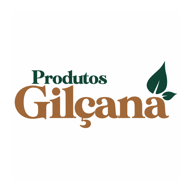
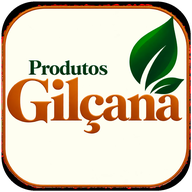
Add files via upload

diff --git a/app.js b/app.js
@@ -1,47 +1,6 @@
 const SUPABASE_URL='https://kpzcvreqjkgevzmlipjs.supabase.co';
 const SUPABASE_KEY='sb_publishable_PgFcb8Fu86xyZ1Fiu1ftEQ_664m7EdB';
 const sb=window.supabase.createClient(SUPABASE_URL,SUPABASE_KEY,{auth:{persistSession:true,autoRefreshToken:true,detectSessionInUrl:true}});
-const FIREBASE_CONFIG={apiKey:'AIzaSyCUh85u__pabANEfEW01gJcBhRi28j5glA',authDomain:'produtos-gilcana.firebaseapp.com',projectId:'produtos-gilcana',storageBucket:'produtos-gilcana.firebasestorage.app',messagingSenderId:'517281824102',appId:'1:517281824102:web:b32b94de1bd2d189215ca7'};
[1 lines of base64/hex data omitted]
-let firebaseMessaging=null;
-async function initPush(){
- if(!account||!('Notification' in window)||!('serviceWorker' in navigator)||!window.firebase)return;
- try{
-  if(!firebase.apps.length)firebase.initializeApp(FIREBASE_CONFIG);
-  firebaseMessaging=firebase.messaging();
-  firebaseMessaging.onMessage(payload=>{const n=payload.notification||{};toast(n.title?`${n.title}: ${n.body||''}`:(payload.data?.body||'Nova notificação.'));loadNotifications();refreshChatUnread();});
-  // Só registra automaticamente quando a conta deseja notificações.
-  // Assim, desligar no app não é desfeito silenciosamente ao reabrir a página.
-  if(Notification.permission==='granted'&&account.notificacoes_ativas!==false)await registerPushToken(false);
- }catch(e){console.error('Push init',e)}
-}
-async function registerPushToken(askPermission=true){
- if(!account)throw new Error('Conta não carregada.');
- if(!('Notification' in window))throw new Error('Este navegador não oferece notificações Web Push.');
- if(!('serviceWorker' in navigator))throw new Error('Este navegador não oferece suporte ao serviço de notificações.');
- try{
-  if(Notification.permission==='denied'){
-   throw new Error('As notificações estão bloqueadas no navegador. Abra as configurações do site/celular, permita Notificações e tente novamente.');
-  }
-  if(askPermission&&Notification.permission==='default'){
-   const p=await Notification.requestPermission();
-   if(p!=='granted')throw new Error(p==='denied'?'As notificações foram bloqueadas. Libere a permissão nas configurações do navegador e tente novamente.':'A permissão de notificações não foi concedida.');
-  }
-  if(Notification.permission!=='granted')throw new Error('Permissão de notificações pendente.');
-  if(!window.firebase)throw new Error('Firebase não carregou. Atualize a página e tente novamente.');
-  if(!firebase.apps.length)firebase.initializeApp(FIREBASE_CONFIG);
-  firebaseMessaging=firebaseMessaging||firebase.messaging();
-  const reg=await navigator.serviceWorker.ready;
-  // getToken recupera o token existente ou cria outro. Isso permite reativar
-  // o aparelho depois de desativá-lo no Supabase.
-  const token=await firebaseMessaging.getToken({vapidKey:FIREBASE_VAPID,serviceWorkerRegistration:reg});
-  if(!token)throw new Error('Não foi possível registrar este aparelho no Firebase.');
-  const {error}=await sb.rpc('registrar_meu_push',{p_token:token,p_plataforma:navigator.userAgent,p_endpoint:location.origin+location.pathname});
-  if(error)throw error;
-  return true;
- }catch(e){console.error('Push register',e);if(askPermission)toast(e.message||'Não foi possível ativar notificações.');return false;}
-}
-
 let account=null, products=[], recommendedProductIds=[], recommendationQty={}, recommendationCursor=0, selected={}, detailProductId=null, detailQuantity=1, cart=JSON.parse(localStorage.getItem('gilcana-cart-v2')||'{}'), activeChatOrder=null, orderRows=[], chatUnreadCount=0, notificationUnreadCount=0;
 const $=s=>document.querySelector(s); const esc=s=>String(s??'').replace(/[&<>"']/g,c=>({'&':'&amp;','<':'&lt;','>':'&gt;','"':'&quot;',"'":'&#39;'}[c]));
 function toast(t){const e=$('#toast');e.textContent=t;e.classList.add('show');clearTimeout(window.tt);window.tt=setTimeout(()=>e.classList.remove('show'),2400)}
@@ -54,7 +13,7 @@ async function ensureAuth(){let {data:{session}}=await sb.auth.getSession();if(!
 async function getAccount(){const {data,error}=await sb.rpc('minha_conta');if(error)throw error;return data}
 async function boot(){try{await ensureAuth();account=await getAccount();if(account){openApp();await Promise.all([loadCatalog(),loadDeliveryDates(),loadOrders(),loadMessages(),loadNotifications()]);subscribeRealtime()}else showLogin()}catch(e){showLogin(e.message)}}
 function showLogin(msg=''){ $('#loginScreen').style.display='grid';$('#appShell').hidden=true;$('#loginError').textContent=msg}
-function openApp(){ $('#loginScreen').style.display='none';$('#appShell').hidden=false;$('#hello').textContent='OLÁ, '+String(account.nome_acesso||account.nome_empresa||'CLIENTE').toUpperCase();setTimeout(initPush,700)}
+function openApp(){ $('#loginScreen').style.display='none';$('#appShell').hidden=false;$('#hello').textContent='OLÁ, '+String(account.nome_acesso||account.nome_empresa||'CLIENTE').toUpperCase();updateInstallUI()}
 async function activateDevice(){const btn=$('#loginBtn');btn.disabled=true;$('#loginError').textContent='';try{await ensureAuth();const nome=$('#loginName').value.trim(),telefone=normalizePhone($('#loginPhone').value),codigo=$('#loginCode').value.trim();if(!nome||telefone.length<10||codigo.length<4)throw new Error('Preencha nome, WhatsApp e código de acesso.');const {data,error}=await sb.rpc('ativar_aparelho',{p_nome:nome,p_telefone:telefone,p_codigo:codigo});if(error)throw error;account=await getAccount();openApp();await Promise.all([loadCatalog(),loadDeliveryDates(),loadOrders(),loadMessages(),loadNotifications()]);subscribeRealtime();startUnreadPolling();toast('Acesso autorizado.')}catch(e){$('#loginError').textContent=e.message||'Não foi possível entrar.'}finally{btn.disabled=false}}
 async function loadCatalog(){const {data,error}=await sb.from('produtos').select('id,nome,descricao,unidade,quantidade_disponivel,imagem_url').eq('ativo',true).order('nome');if(error)throw error;products=data||[];const {data:recs}=await sb.from('produtos_recomendados').select('produto_id,ordem').eq('ativo',true).order('ordem');recommendedProductIds=(recs||[]).map(r=>r.produto_id).filter(id=>products.some(p=>p.id===id)).slice(0,3);if(!recommendedProductIds.length)recommendedProductIds=products.slice(0,3).map(p=>p.id);renderProducts();renderCart()}
 function renderProducts(){const q=($('#search')?.value||'').toLowerCase();$('#products').innerHTML=products.filter(p=>p.nome.toLowerCase().includes(q)).map(p=>`<article class="product"><div class="pic" onclick="openProductDetail(${p.id})" title="Ver detalhes">${pic(p)}</div><div class="body"><h3 class="product-title-link" onclick="openProductDetail(${p.id})">${esc(p.nome)}</h3><small>${esc(p.unidade)} • ${Number(p.quantidade_disponivel)} disponíveis</small><div class="selector"><button onclick="qty(${p.id},-1)">−</button><b id="q${p.id}">${selected[p.id]||0}</b><button onclick="qty(${p.id},1)">+</button></div><button class="add" onclick="add(${p.id})">Adicionar</button></div></article>`).join('')||'<div class="card">Nenhum produto disponível.</div>'}
@@ -151,49 +110,11 @@ async function loadAccountPage(){
   if(!account)return;
   $('#accountName').textContent=account.nome_empresa||account.nome_cliente||'Cliente';
   $('#accountPhone').textContent='WhatsApp: '+(account.telefone||'');
-  $('#notificationsToggle').checked=account.notificacoes_ativas!==false;
   const {data,error}=await sb.rpc('minha_pessoa_autorizada');
   if(error){$('#authorizedPerson').innerHTML='<p class="muted">Não foi possível carregar.</p>';return}
   const box=$('#authorizedPerson'), form=$('#authorizedForm');
   if(data&&data.id){box.innerHTML=`<div class="authorized-current"><div><b>${esc(data.nome)}</b><small>${esc(data.telefone)}</small></div><button class="danger-outline" onclick="removeAuthorizedPerson()">Remover</button></div>`;form.style.display='none'}
   else{box.innerHTML='';form.style.display='grid'}
-}
-let changingNotifications=false;
-async function setNotifications(enabled){
-  const toggle=$('#notificationsToggle');
-  if(changingNotifications)return;
-  changingNotifications=true;
-  if(toggle)toggle.disabled=true;
-  try{
-    if(enabled){
-      // Primeiro garante permissão + token + registro do aparelho.
-      const ok=await registerPushToken(true);
-      if(!ok){if(toggle)toggle.checked=false;return;}
-      // Só depois marca a preferência da conta como ativa.
-      const {error}=await sb.rpc('definir_minhas_notificacoes',{p_ativas:true});
-      if(error)throw error;
-      account.notificacoes_ativas=true;
-      if(toggle)toggle.checked=true;
-      toast('Notificações ativadas neste aparelho.');
-    }else{
-      // Desativa o envio no servidor, mas NÃO revoga a permissão do navegador.
-      // Assim o usuário consegue ativar novamente pelo próprio botão.
-      const {error}=await sb.rpc('definir_minhas_notificacoes',{p_ativas:false});
-      if(error)throw error;
-      const {error:pushError}=await sb.rpc('desativar_meus_push');
-      if(pushError)throw pushError;
-      account.notificacoes_ativas=false;
-      if(toggle)toggle.checked=false;
-      toast('Notificações desativadas. Você pode ativá-las novamente quando quiser.');
-    }
-  }catch(e){
-    console.error('Alterar notificações',e);
-    if(toggle)toggle.checked=account.notificacoes_ativas!==false;
-    toast(e?.message||'Não foi possível alterar as notificações.');
-  }finally{
-    changingNotifications=false;
-    if(toggle)toggle.disabled=false;
-  }
 }
 async function saveAuthorizedPerson(){
   const nome=$('#authorizedName').value.trim(), telefone=normalizePhone($('#authorizedPhone').value), codigo=$('#authorizedCode').value.trim();
@@ -205,6 +126,25 @@ async function saveAuthorizedPerson(){
 async function removeAuthorizedPerson(){
   if(!confirm('Deseja remover a pessoa autorizada?'))return;
   const {error}=await sb.rpc('remover_minha_pessoa_autorizada');if(error)return toast('Erro: '+error.message);await loadAccountPage();toast('Pessoa autorizada removida.')
+}
+let deferredInstallPrompt=null;
+window.addEventListener('beforeinstallprompt',e=>{e.preventDefault();deferredInstallPrompt=e;updateInstallUI()});
+window.addEventListener('appinstalled',()=>{deferredInstallPrompt=null;updateInstallUI();toast('Produtos Gilçana instalado.')});
+function isStandalone(){return window.matchMedia('(display-mode: standalone)').matches||window.navigator.standalone===true}
+function isIOS(){return /iphone|ipad|ipod/i.test(navigator.userAgent)}
+function updateInstallUI(){
+ const btn=$('#installAppBtn'),help=$('#installHelp');if(!btn||!help)return;
+ if(isStandalone()){btn.style.display='none';help.textContent='Aplicativo instalado neste aparelho.';return}
+ btn.style.display='block';
+ if(isIOS()){btn.textContent='Como instalar no iPhone';help.textContent='No Safari: Compartilhar → Adicionar à Tela de Início.'}
+ else if(deferredInstallPrompt){btn.textContent='Instalar aplicativo';help.textContent='Instalação disponível neste aparelho.'}
+ else{btn.textContent='Como instalar';help.textContent='Abra o menu do navegador e escolha Instalar app ou Adicionar à tela inicial.'}
+}
+async function installApp(){
+ if(isStandalone())return toast('O aplicativo já está instalado.');
+ if(deferredInstallPrompt){deferredInstallPrompt.prompt();await deferredInstallPrompt.userChoice;deferredInstallPrompt=null;updateInstallUI();return}
+ if(isIOS())return toast('No Safari, toque em Compartilhar e depois em Adicionar à Tela de Início.');
+ toast('No menu do navegador, escolha Instalar app ou Adicionar à tela inicial.');
 }
 function showPage(id){const isChat=id==='chat';document.documentElement.classList.toggle('chat-lock',isChat);document.body.classList.toggle('chat-open',isChat);document.querySelectorAll('.page').forEach(x=>x.classList.remove('active'));$('#'+id).classList.add('active');document.querySelectorAll('nav button').forEach(x=>x.classList.toggle('active',x.dataset.page===id));$('#cartBar').style.display=id==='shop'?'flex':'none';if(id==='cart')renderCart();if(id==='orders')loadOrders();if(id==='chat')loadMessages();if(id==='accountPage')loadAccountPage();if(id!=='chat')refreshChatUnread();window.scrollTo(0,0)}
 function subscribeRealtime(){sb.channel('gilcana-cliente').on('postgres_changes',{event:'*',schema:'public',table:'pedidos'},()=>loadOrders()).on('postgres_changes',{event:'*',schema:'public',table:'mensagens'},()=>{if($('#chat').classList.contains('active'))loadMessages();else refreshChatUnread();loadNotifications()}).on('postgres_changes',{event:'*',schema:'public',table:'notificacoes'},()=>loadNotifications()).on('postgres_changes',{event:'*',schema:'public',table:'produtos'},()=>loadCatalog()).subscribe()}

diff --git a/index.html b/index.html
@@ -1,5 +1,5 @@
-<!doctype html><html lang="pt-BR"><head><meta charset="utf-8"><meta name="viewport" content="width=device-width,initial-scale=1,maximum-scale=1,user-scalable=no,viewport-fit=cover"><meta name="theme-color" content="#064f3d"><meta name="apple-mobile-web-app-capable" content="yes"><meta name="apple-mobile-web-app-title" content="Gilçana"><title>Produtos Gilçana</title><link rel="manifest" href="manifest.webmanifest"><link rel="apple-touch-icon" href="assets/icon-192.png"><link rel="stylesheet" href="style.css"><script src="https://cdn.jsdelivr.net/npm/@supabase/supabase-js@2"></script><script src="https://www.gstatic.com/firebasejs/10.14.1/firebase-app-compat.js"></script><script src="https://www.gstatic.com/firebasejs/10.14.1/firebase-messaging-compat.js"></script></head><body>
-<section id="loginScreen" class="login-screen"><div class="login-box"><img src="assets/logo.png" alt="Produtos Gilçana"><small>ACESSO DO CLIENTE</small><h1>Bem-vindo</h1><p>Informe seu nome, WhatsApp cadastrado e código de acesso.</p><input id="loginName" placeholder="Seu nome" autocomplete="name"><input id="loginPhone" placeholder="WhatsApp cadastrado" inputmode="tel" autocomplete="tel"><input id="loginCode" placeholder="Código de acesso" type="password" inputmode="numeric"><button class="primary" id="loginBtn" onclick="activateDevice()">Entrar</button><div id="loginError" class="login-error"></div></div></section>
+<!doctype html><html lang="pt-BR"><head><meta charset="utf-8"><meta name="viewport" content="width=device-width,initial-scale=1,maximum-scale=1,user-scalable=no,viewport-fit=cover"><meta name="theme-color" content="#064f3d"><meta name="apple-mobile-web-app-capable" content="yes"><meta name="mobile-web-app-capable" content="yes"><meta name="apple-mobile-web-app-status-bar-style" content="black-translucent"><meta name="format-detection" content="telephone=no"><meta name="apple-mobile-web-app-title" content="Gilçana"><title>Produtos Gilçana</title><link rel="manifest" href="manifest.webmanifest"><link rel="apple-touch-icon" sizes="180x180" href="assets/icon-180.png"><link rel="icon" type="image/png" sizes="192x192" href="assets/icon-192.png"><link rel="stylesheet" href="style.css"><script src="https://cdn.jsdelivr.net/npm/@supabase/supabase-js@2"></script></head><body>
+<section id="loginScreen" class="login-screen"><div class="login-box"><img class="app-brand-icon" src="assets/icon-192.png" alt="Produtos Gilçana"><small>ACESSO DO CLIENTE</small><h1>Bem-vindo</h1><p>Informe seu nome, WhatsApp cadastrado e código de acesso.</p><input id="loginName" placeholder="Seu nome" autocomplete="name"><input id="loginPhone" placeholder="WhatsApp cadastrado" inputmode="tel" autocomplete="tel"><input id="loginCode" placeholder="Código de acesso" type="password" inputmode="numeric"><button class="primary" id="loginBtn" onclick="activateDevice()">Entrar</button><div id="loginError" class="login-error"></div></div></section>
 <div id="appShell" hidden>
 <header><img src="assets/logo.png" alt="Produtos Gilçana"><div><button onclick="showPage('orders')">Meus pedidos</button><button class="account-btn" onclick="showPage('accountPage');loadAccountPage()" aria-label="Minha conta"><svg class="ui-icon" viewBox="0 0 24 24"><circle cx="12" cy="8" r="4"/><path d="M4 21a8 8 0 0 1 16 0"/></svg></button><button class="bell" onclick="showPage('notifications');markNotificationsRead()"><svg class="ui-icon" viewBox="0 0 24 24"><path d="M18 8a6 6 0 0 0-12 0c0 7-3 7-3 9h18c0-2-3-2-3-9M10 21h4"/></svg><i id="noticeCount">0</i></button></div></header>
 <main>
@@ -9,11 +9,11 @@
 <section id="orders" class="page"><div class="pagehead"><button onclick="showPage('shop')">‹</button><div><small>ACOMPANHAMENTO</small><h2>Meus pedidos</h2></div></div><div id="ordersList"><div class="card">Carregando pedidos...</div></div></section>
 <section id="chat" class="page chatpage"><div class="chathead"><button onclick="showPage('shop')">‹</button><img src="assets/logo.png"><div><b>Produtos Gilçana</b><small>Atendimento</small></div></div><div id="messages" class="messages"></div><div id="chatError" class="chat-error"></div><form class="composer" id="chatForm" onsubmit="event.preventDefault();sendChatMessage()"><input id="chatInput" placeholder="Digite uma mensagem" maxlength="500" enterkeyhint="send"><button type="submit" class="send-message" aria-label="Enviar mensagem"><svg class="ui-icon" viewBox="0 0 24 24"><path d="M22 2 11 13"/><path d="m22 2-7 20-4-9-9-4Z"/></svg></button></form></section>
 
-<section id="accountPage" class="page"><div class="pagehead"><button onclick="showPage('shop')">‹</button><div><small>ACESSO</small><h2>Minha conta</h2></div></div><div class="card account-card"><h3 id="accountName">Cliente</h3><p id="accountPhone"></p><label class="toggle-row"><span><b>Notificações no aplicativo</b><small>Receber avisos de pedidos e mensagens.</small></span><input id="notificationsToggle" type="checkbox" onchange="setNotifications(this.checked)"></label></div><div class="card"><h3>Pessoa autorizada para pedidos</h3><p class="muted">Você pode manter uma pessoa adicional autorizada a fazer pedidos na sua conta.</p><div id="authorizedPerson"></div><div id="authorizedForm" class="authorized-form"><input id="authorizedName" placeholder="Nome da pessoa"><input id="authorizedPhone" placeholder="WhatsApp" inputmode="tel"><input id="authorizedCode" placeholder="Código de acesso (mín. 4 caracteres)" type="password"><button class="primary" onclick="saveAuthorizedPerson()">Autorizar pessoa</button></div></div></section>
+<section id="accountPage" class="page"><div class="pagehead"><button onclick="showPage('shop')">‹</button><div><small>ACESSO</small><h2>Minha conta</h2></div></div><div class="card account-card"><h3 id="accountName">Cliente</h3><p id="accountPhone"></p></div><div class="card install-card"><div class="install-head"><img src="assets/icon-192.png" alt=""><div><h3>Produtos Gilçana no celular</h3><p class="muted">Instale para abrir em tela cheia, como um aplicativo.</p></div></div><button id="installAppBtn" class="primary" type="button" onclick="installApp()">Instalar aplicativo</button><p id="installHelp" class="install-help"></p></div><div class="card"><h3>Pessoa autorizada para pedidos</h3><p class="muted">Você pode manter uma pessoa adicional autorizada a fazer pedidos na sua conta.</p><div id="authorizedPerson"></div><div id="authorizedForm" class="authorized-form"><input id="authorizedName" placeholder="Nome da pessoa"><input id="authorizedPhone" placeholder="WhatsApp" inputmode="tel"><input id="authorizedCode" placeholder="Código de acesso (mín. 4 caracteres)" type="password"><button class="primary" onclick="saveAuthorizedPerson()">Autorizar pessoa</button></div></div></section>
 <section id="notifications" class="page"><div class="pagehead"><button onclick="showPage('shop')">‹</button><div><small>ATUALIZAÇÕES</small><h2>Notificações</h2></div></div><div id="notificationsList"></div></section>
 </main>
 <button id="cartBar" class="cartbar" onclick="showPage('cart')"><span><svg class="ui-icon" viewBox="0 0 24 24"><path d="M3 4h2l2.2 10h10.7l2-7H6"/><circle cx="9" cy="19" r="1.5"/><circle cx="17" cy="19" r="1.5"/></svg> Ver carrinho</span><b id="cartCount">0</b></button>
 <nav><button class="active" data-page="shop" onclick="showPage('shop')"><span><svg class="ui-icon" viewBox="0 0 24 24"><path d="M12 21V10M12 14C7 14 4 11 4 6c5 0 8 3 8 8ZM12 11c0-5 3-8 8-8 0 5-3 8-8 8Z"/></svg></span>Produtos</button><button data-page="orders" onclick="showPage('orders')"><span><svg class="ui-icon" viewBox="0 0 24 24"><rect x="5" y="4" width="14" height="17" rx="2"/><path d="M9 4V2h6v2M8 9h8M8 13h8M8 17h5"/></svg></span>Pedidos</button><button data-page="chat" onclick="showPage('chat')"><span><svg class="ui-icon" viewBox="0 0 24 24"><path d="M20 15a4 4 0 0 1-4 4H9l-5 3v-7a4 4 0 0 1-1-3V8a4 4 0 0 1 4-4h9a4 4 0 0 1 4 4Z"/></svg></span>Chat<i id="chatUnreadBadge" class="chat-unread-badge">0</i></button></nav>
 </div>
 <div id="toast" class="toast"></div><div id="modal" class="modal"><div class="modal-center"><div class="modal-icon alert">!</div><h3>Confirmar pedido?</h3><p>Data de entrega selecionada:</p><p id="confirmDeliveryDate" class="confirm-date"></p><p>Deseja realmente confirmar este pedido?</p><p id="orderSubmitError" class="submit-error"></p><button class="secondary btn-no" onclick="closeModal()">Não, voltar</button><button class="primary btn-yes" id="confirmOrderBtn" onclick="finishOrder()">Sim, confirmar</button></div></div><div id="successModal" class="modal success-modal"><div class="modal-center"><div class="modal-icon ok">✓</div><h3>Pedido confirmado!</h3><p id="successOrderText">Seu pedido foi enviado com sucesso.</p><button class="primary btn-yes" onclick="closeSuccessModal()">OK</button></div></div>
-<script src="app.js?v=311"></script></body></html>
+<script src="app.js?v=400"></script></body></html>

diff --git a/sw.js b/sw.js
@@ -1,10 +1,13 @@
-const CACHE='gilcana-v314-push';
-const ASSETS=['./','./index.html','./style.css','./app.js','./manifest.webmanifest','./assets/logo.png','./assets/icon-192.png','./assets/icon-512.png'];
-self.addEventListener('install',e=>{self.skipWaiting();e.waitUntil(caches.open(CACHE).then(c=>c.addAll(ASSETS)))});
-self.addEventListener('activate',e=>{e.waitUntil(Promise.all([self.clients.claim(),caches.keys().then(k=>Promise.all(k.filter(x=>x!==CACHE).map(x=>caches.delete(x))))]))});
-self.addEventListener('fetch',e=>{if(e.request.method!=='GET')return;e.respondWith(fetch(e.request).then(r=>{const c=r.clone();caches.open(CACHE).then(x=>x.put(e.request,c));return r}).catch(()=>caches.match(e.request)))});
-importScripts('https://www.gstatic.com/firebasejs/10.14.1/firebase-app-compat.js');
-importScripts('https://www.gstatic.com/firebasejs/10.14.1/firebase-messaging-compat.js');
-firebase.initializeApp({apiKey:'AIzaSyCUh85u__pabANEfEW01gJcBhRi28j5glA',authDomain:'produtos-gilcana.firebaseapp.com',projectId:'produtos-gilcana',storageBucket:'produtos-gilcana.firebasestorage.app',messagingSenderId:'517281824102',appId:'1:517281824102:web:b32b94de1bd2d189215ca7'});
-firebase.messaging();
-self.addEventListener('notificationclick',event=>{event.notification.close();event.waitUntil(clients.matchAll({type:'window',includeUncontrolled:true}).then(list=>{for(const c of list){if(c.url.includes('/produtos-gilcana-cliente/'))return c.focus()}return clients.openWindow('./')}))});
+const CACHE='gilcana-v400-final';
+const CORE=['./','./index.html','./style.css','./app.js','./manifest.webmanifest','./assets/logo.png','./assets/icon-180.png','./assets/icon-192.png','./assets/icon-512.png'];
+self.addEventListener('install',event=>{self.skipWaiting();event.waitUntil(caches.open(CACHE).then(c=>c.addAll(CORE)))});
+self.addEventListener('activate',event=>{event.waitUntil(Promise.all([self.clients.claim(),caches.keys().then(keys=>Promise.all(keys.filter(k=>k!==CACHE).map(k=>caches.delete(k))))]))});
+self.addEventListener('fetch',event=>{
+ if(event.request.method!=='GET')return;
+ const req=event.request;
+ if(req.mode==='navigate'){
+  event.respondWith(fetch(req,{cache:'no-store'}).then(res=>{const copy=res.clone();caches.open(CACHE).then(c=>c.put('./index.html',copy));return res}).catch(()=>caches.match('./index.html')));
+  return;
+ }
+ event.respondWith(fetch(req).then(res=>{if(res.ok&&new URL(req.url).origin===location.origin){const copy=res.clone();caches.open(CACHE).then(c=>c.put(req,copy))}return res}).catch(()=>caches.match(req)));
+});

diff --git a/style.css b/style.css
@@ -113,3 +113,8 @@ nav button.active .chat-unread-badge{border-color:#064f3d!important}
 .order-chat-icon{flex:0 0 38px;width:38px;height:38px;border-radius:12px;background:var(--g);display:grid;place-items:center;box-shadow:0 3px 8px #064f3d25}
 .order-chat-icon svg{width:22px;height:22px;fill:none;stroke:#fff;stroke-width:1.8;stroke-linecap:round;stroke-linejoin:round}
 .order-chat-copy{min-width:0;display:flex;flex-direction:column;gap:3px}.order-chat-copy small{font-size:9px;letter-spacing:.08em;color:#6f7d75;font-weight:900}.order-chat-copy b{font-size:14px;color:var(--g)}.order-chat-copy span{font-size:11px;line-height:1.35}.order-chat-products{margin-top:4px;padding-top:6px;border-top:1px solid #d8e5dc;color:#526159}.order-reference-bubble .message-meta{padding:2px 5px 0}
+
+/* V4.0 — acabamento de instalação */
+.app-brand-icon{width:112px!important;height:112px!important;object-fit:contain!important;border-radius:24px!important;margin:0 auto 12px!important;display:block!important;box-shadow:0 8px 24px #064f3d22!important}
+.install-card{margin-bottom:14px}.install-head{display:flex;gap:13px;align-items:center;margin-bottom:13px}.install-head img{width:62px;height:62px;border-radius:15px;object-fit:cover;box-shadow:0 4px 12px #0001}.install-head h3{margin:0 0 4px}.install-head p{margin:0}.install-card .primary{width:100%;margin:0}.install-help{margin:9px 2px 0;color:var(--muted);font-size:12px;line-height:1.4}
+@media (display-mode:standalone){body{user-select:none;-webkit-user-select:none}input,textarea{user-select:text;-webkit-user-select:text}}
